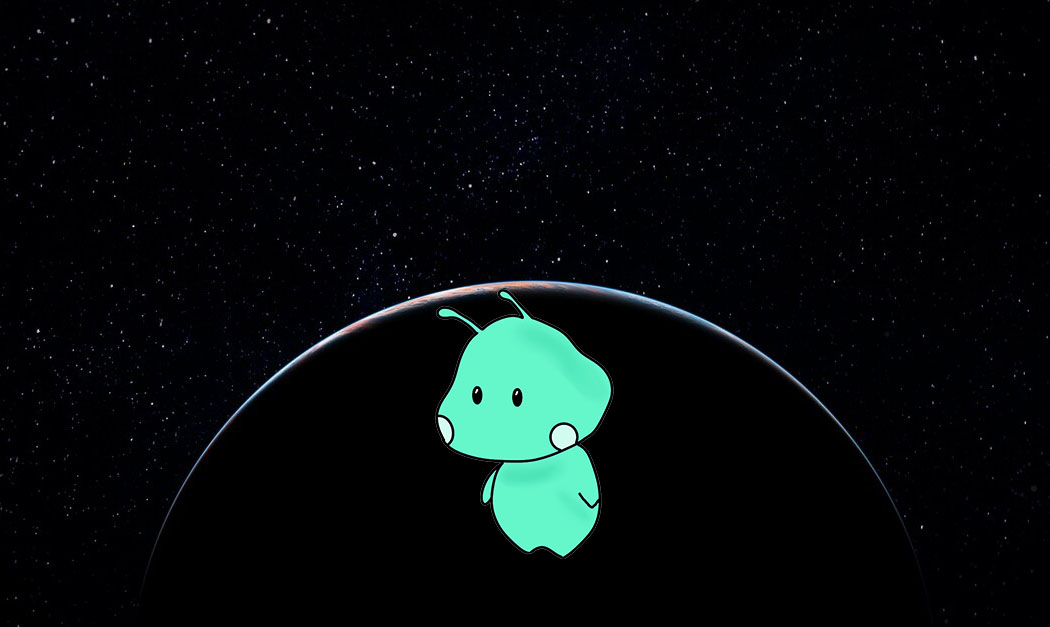
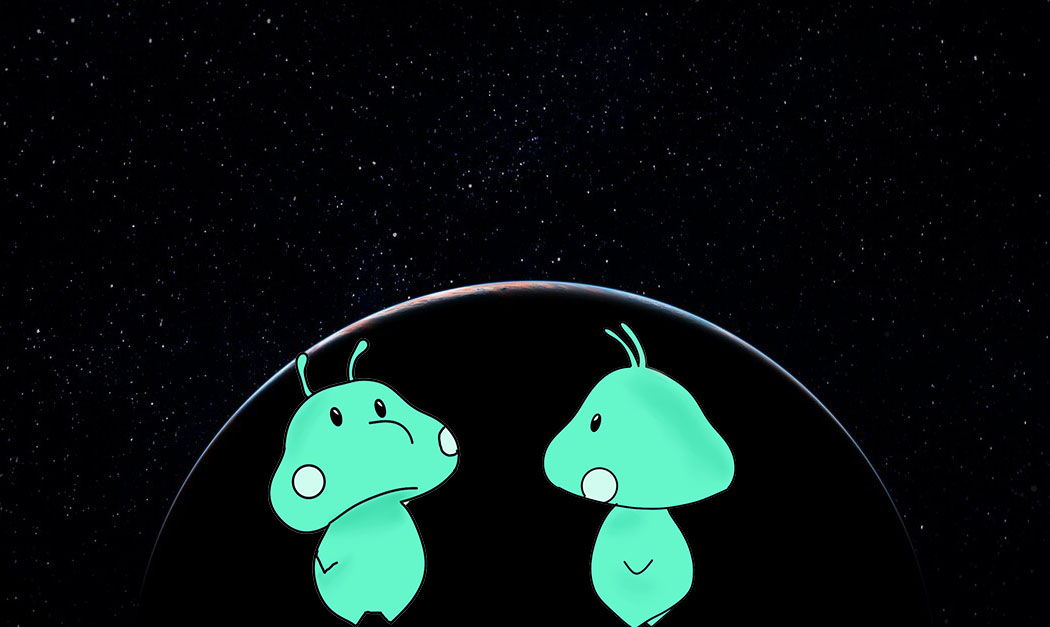
fixing some stuff

Changed region(s): [[0.2438, 0.4545, 0.701, 1.0], [0.3352, 0.5455, 0.3657, 0.5758]]

diff --git a/game.js b/game.js
@@ -34,10 +34,10 @@ function change_iser_input(num){
 function displayQuestion(id) {
     context.clearRect(0, 0, window.innerWidth, window.innerHeight);
     if(question_index==3){
-        drawText("Иди да прочетеш малко повече и тогава пробвай пак!", 650, 300)
+        drawText("Иди да прочетеш малко повече и тогава пробвай пак!", 300, 300)
         return
     }
-    drawText(treemap.questions[id][question_index], 650, 300);
+    drawText(treemap.questions[id][question_index], 300, 300);
 }
 
 function shuffle(array) {
@@ -56,7 +56,7 @@ for(i=0; i<treemap.questions.length; i++){
 
 function update() {
     if(!has_first_print_happened){
-        drawText(treemap.questions[0][question_index], 650, 300)
+        drawText(treemap.questions[0][question_index], 300, 300)
         has_first_print_happened=true
     }
     if(user_input!=2 && (treemap.idForYes[curr_id] || treemap.idForNo[curr_id]) && question_index<3){
@@ -79,18 +79,24 @@ function update() {
         }
     }
     if(!(treemap.idForYes[curr_id] || treemap.idForNo[curr_id])){
-        if(user_input==-1){
-            context.clearRect(0, 0, canvas.width, canvas.height);
-            drawText("Поздравления! Ти ме победи", 650, 300)
-            $("#buttonForYes").hide();
-            $("#buttonForNo").hide();
+		$("#buttonForYes" ).click(function() {
+				window.location.replace('victory.php');
+		});
+		$("#buttonForNo" ).click(function() {
+				window.location.replace('lose.php');
+		});
+       /* if(user_input==-1){
+           context.clearRect(0, 0, canvas.width, canvas.height);
+           drawText("Поздравления! Ти ме победи", 300, 300);
+           $("#buttonForYes").hide();
+           $("#buttonForNo").hide();
         }
         if(user_input==1){
             context.clearRect(0, 0, canvas.width, canvas.height);
-            drawText("Аз винаги печеля!", 650, 300)
-            $("#buttonForYes").hide();
+            drawText("Аз винаги печеля!", 300, 300)
+			$("#buttonForYes").hide();
             $("#buttonForNo").hide();
-        }
+        }*/
         $("#buttonForIDunno").hide();
     }
 }

diff --git a/start.html b/start.html
@@ -2,12 +2,12 @@
 <html>
 <head>
     <link href='https://fonts.googleapis.com/css?family=Aclonica' rel='stylesheet'>
-    <link rel="stylesheet" href="style.css?id=1">
+    <link rel="stylesheet" href="style.css?id=23">
 	<meta name="viewport" content="width=device-width, initial-scale=1, maximum-scale=1, user-scalable=0">
 	<meta charset="UTF-8"></meta>
 </head>
-	<body  onload="init()" class="background">
-        <canvas id="canvas-id" style="vertical-align:top">
+	<body  onload="init()" class="background">sdsdsds
+        <canvas id="canvas-id">
             <script>
 		  	   let updateTime = 10; // in ms
 		  	   const canvas = document.getElementById("canvas-id");

diff --git a/style.css b/style.css
@@ -20,10 +20,10 @@ body{
 
 .background{
 	background-image: url(backg.jpg);
-	background-repeat: no-repeat;
-	height: 100%;
 	background-color: black;
-	background-position: center; 
+	background-repeat: no-repeat;
+	background-attachment: fixed;
+	background-position: center top; 
 	
 }
 

diff --git a/start.php b/start.php
@@ -1,0 +1,38 @@
+<!DOCTYPE html>
+<?php
+echo 1;
+?>
+<html>
+<head>
+    <link href='https://fonts.googleapis.com/css?family=Aclonica' rel='stylesheet'>
+    <link rel="stylesheet" href="style.css?id=23">
+	<meta name="viewport" content="width=device-width, initial-scale=1, maximum-scale=1, user-scalable=0">
+	<meta charset="UTF-8"></meta>
+</head>
+	<body  onload="init()" class="background">sdsdsds
+        <canvas id="canvas-id">
+            <script>
+		  	   let updateTime = 10; // in ms
+		  	   const canvas = document.getElementById("canvas-id");
+                let isUpdatePaused_ = false,
+                updateInterval = undefined;
+            </script>
+            <script src="game.js"></script>
+            <script>
+                const context = canvas.getContext("2d");
+                context.fillStyle = "#0000ff";
+                const reqAnimationFrame = window.requestAnimationFrame || window.mozRequestAnimationFrame || window.webkitRequestAnimationFrame || window.msRequestAnimationFrame || function (callback) {
+				    setTimeout(callback, 1000 / 30);
+                };
+                function init() {
+                    updateInterval = setInterval(update, updateTime);
+                }
+			</script>
+		</canvas>
+        <div class="buttons_div">
+            <p id="buttonForYes" class="button1" style="border-style: solid" onclick="change_iser_input(1)">Да</p>
+            <p id="buttonForNo" class="button1" style="border-style: solid" onclick="change_iser_input(-1)">Не</p>
+            <p id="buttonForIDunno" class="button1" style="border-style: solid" onclick="change_iser_input(0)">Не нам</p>
+        </div>
+	</body>
+</html>

diff --git a/cosmic_literature.php b/cosmic_literature.php
@@ -1,0 +1,34 @@
+<?php
+include("base_connection.php");
+$query = "SELECT * FROM cosmic_literature ORDER BY literature_id ASC";
+$literatures = Select ($query);
+?>
+
+<html>
+<head>
+<link href='https://fonts.googleapis.com/css?family=Aclonica' rel='stylesheet'>
+<link rel="stylesheet" href="style_t.css?id=2">
+</head>
+<body class="background3">
+<div class="zad">
+<a href="menu.php" class="button3">Назад</a>
+</div>
+<h1 class="heading">Каква литература търсиш?</h1>
+<div align="center">
+<?php
+if(is_array($literatures)){
+	foreach($literatures as $k => $value){
+		?>
+		<a class="button2" href="<?=$value["literature_link"];?>" target="_blank"><?=$value["literature_name"];?></a>
+		<?php
+		
+		
+		
+	}
+}
+?>
+</div>
+
+</body>
+
+</html>

diff --git a/index.php b/index.php
@@ -6,9 +6,9 @@
 </head>
 <body class="background">
 <div class="buttons_div">
-<a href="menu.php" class="button1">Космическите хроники</a>
-<a href="start.html" class="button1">Предизвикай Cong Posmic</a>
-<a href="" class="button1">Стани част от екипажа</a>
+<a href="menu.php" class="button2">Космическите хроники</a>
+<a href="start.html" class="button2">Предизвикай Cong Posmic</a>
+<a href="" class="button2">Стани част от екипажа</a>
 </div>
 </body>
 </html>
